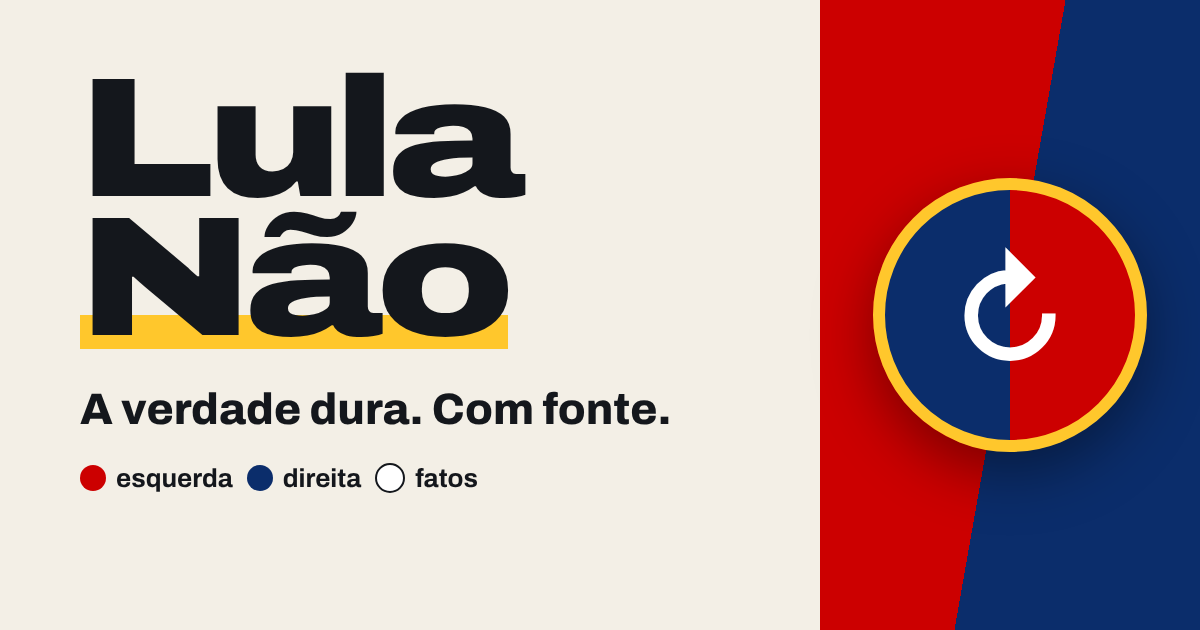
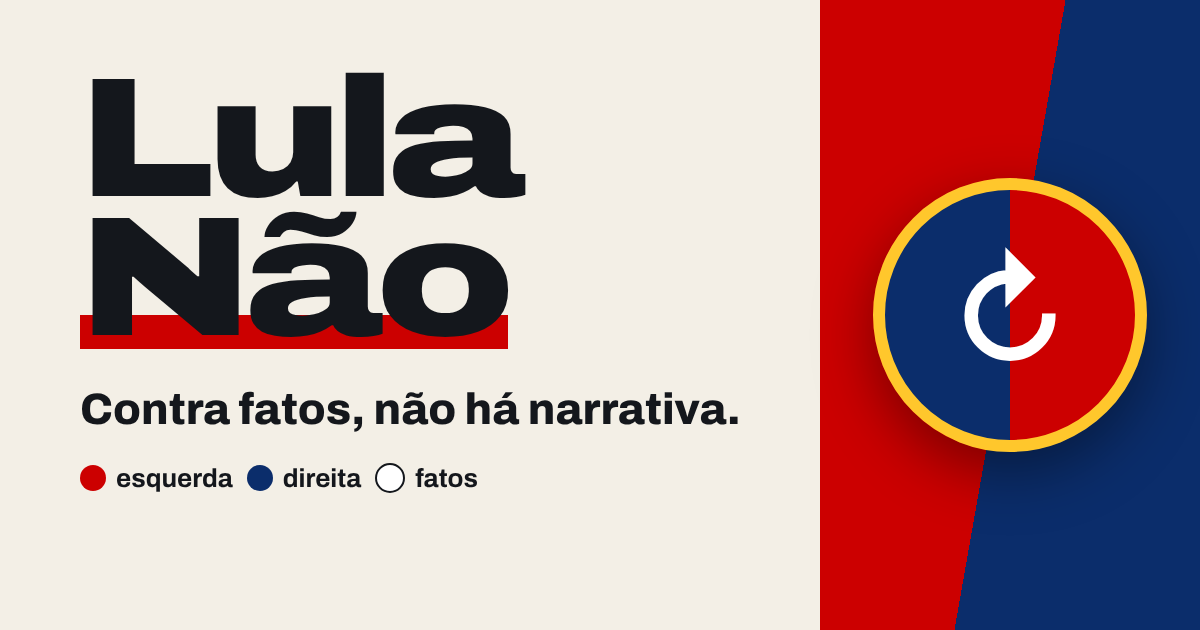
Novo lema "Contra fatos, não há narrativa." e marca Lula Não em vermelho
Troca o sublinhado amarelo do "Não" por vermelho comunista no site, no
favicon e na imagem de compartilhamento.

Claude-Session: https://claude.ai/code/session_017e6yyeix88W16zvopWCM9v

Changed region(s): [[0.0617, 0.6032, 0.6167, 0.6937], [0.0617, 0.4825, 0.4317, 0.573]]

diff --git a/src/scripts/app.ts b/src/scripts/app.ts
@@ -584,7 +584,7 @@ async function gerarImagem(kit: HTMLElement): Promise<Blob | null> {
   ctx.font = '900 54px "Archivo Variable", sans-serif';
   ctx.fillText('LULA NÃO', 80, A - 92);
   ctx.font = '600 28px "JetBrains Mono Variable", monospace';
-  ctx.fillText('A verdade dura. Com fonte.', 80, A - 48);
+  ctx.fillText('Contra fatos, não há narrativa.', 80, A - 48);
   ctx.textAlign = 'right';
   ctx.fillStyle = cores.acento;
   ctx.fillText(url.replace(/^https?:\/\//, ''), L - 80, A - 92);

diff --git a/src/config.ts b/src/config.ts
@@ -9,7 +9,7 @@ export const SITE = {
   nome: 'Lula Não',
   dominio: 'lulanao.com.br',
   url: 'https://lulanao.com.br',
-  lema: 'A verdade dura. Com fonte.',
+  lema: 'Contra fatos, não há narrativa.',
   simboloComunista: 'ancorado' as ModoSimbolo,
   /** 'prototipo' avisa sobre pendências; 'producao' impede o build se houver pendências. */
   modo: (process.env.LULANAO_MODO === 'producao' ? 'producao' : 'prototipo') as 'prototipo' | 'producao',

diff --git a/src/styles/global.css b/src/styles/global.css
@@ -223,7 +223,7 @@ p {
   letter-spacing: -0.02em;
 }
 .marca-site span {
-  box-shadow: inset 0 -0.28em 0 var(--ouro);
+  box-shadow: inset 0 -0.28em 0 var(--esq);
 }
 .marca-site + p {
   color: #b6bcc5;
@@ -2310,7 +2310,7 @@ dialog::backdrop {
   display: block;
 }
 .intro-marca .nao {
-  box-shadow: inset 0 -0.2em 0 var(--ouro);
+  box-shadow: inset 0 -0.2em 0 var(--esq);
   display: inline-block;
 }
 .intro-lema {

diff --git a/README.md b/README.md
@@ -1,6 +1,6 @@
 # lulanao.com.br
 
-> **A verdade dura. Com fonte.**
+> **Contra fatos, não há narrativa.**
 
 Site **de direita**, interativo, mobile-first e 100% estático que mostra, com fontes verificáveis e linguagem acessível, o que Lula, o PT e seu entorno defendem e fizeram, e tudo aquilo em que foram investigados, com o status jurídico exato de cada caso. E mostra **a outra face da moeda**: os valores da direita, tema por tema. 🔴 Vermelho = esquerda · 🔵 Azul = direita · ⚪ Papel = fatos.
 

diff --git a/docs/01-planejamento.md b/docs/01-planejamento.md
@@ -1,6 +1,6 @@
 # Planejamento completo — lulanao.com.br
 
-> **A verdade dura. Com fonte.**
+> **Contra fatos, não há narrativa.**
 
 Documento-mestre do projeto. Define o conceito, a experiência, a navegação, a identidade visual, a tecnologia, o recurso de IA, a publicação gratuita na Cloudflare e o cronograma.
 
